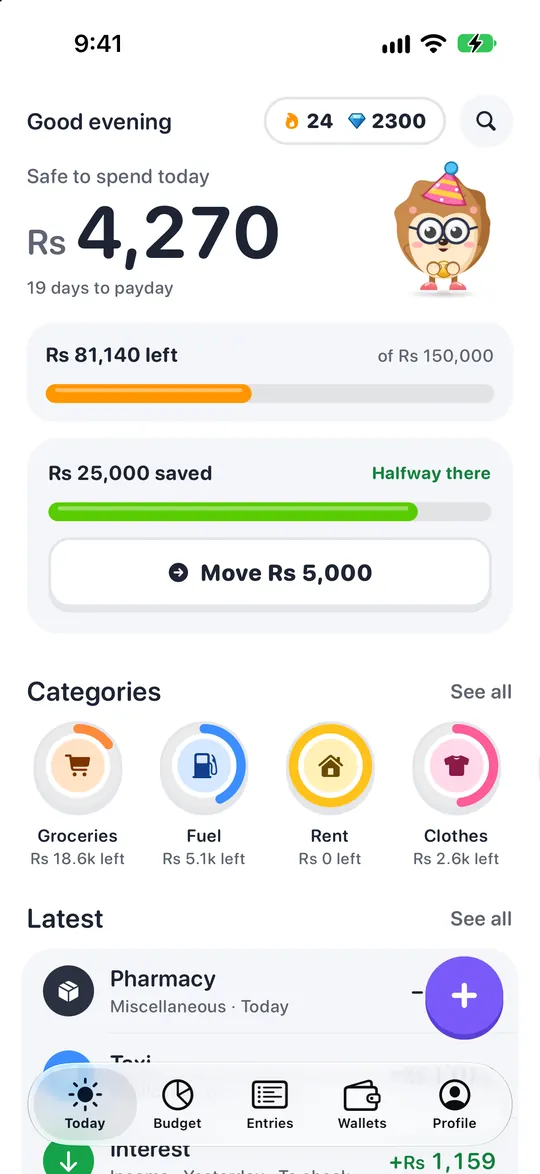
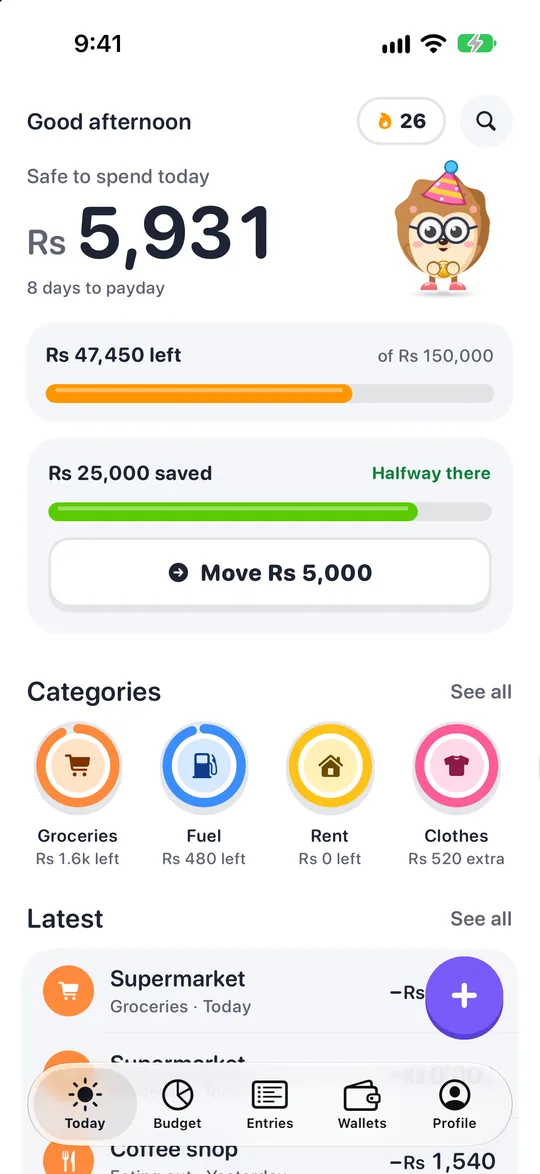
Pouch: weeks tracked and Hedge's trip, re-shot Today and Profile
New group with the streak page, a quiet day and the trip. Today (light and
dark), the week moment and Profile re-shot from the same fictional demo data
now that the app dropped the gems chip from Today.

diff --git a/work/pouch.html b/work/pouch.html
@@ -49,6 +49,9 @@
       <div class="group-head"><h3>Hedge, your guide</h3><ul><li>Hedge cheers every week you track.</li><li>Every entry counts toward the next level.</li><li>Gems buy him outfits from a wardrobe of 51.</li></ul></div>
       <div class="rail phones"><figure><div class="phone"><div class="screen"><img src="../img/apps/pouch-celebrate-week.webp" alt="Pouch Hedge, screen 1" loading="lazy" decoding="async" srcset="../img/apps/pouch-celebrate-week-300.webp 300w, ../img/apps/pouch-celebrate-week.webp 540w" sizes="(max-width: 640px) 34vw, (max-width: 900px) 160px, 240px"></div></div></figure><figure><div class="phone"><div class="screen"><img src="../img/apps/pouch-celebrate-level.webp" alt="Pouch Hedge, screen 2" loading="lazy" decoding="async" srcset="../img/apps/pouch-celebrate-level-300.webp 300w, ../img/apps/pouch-celebrate-level.webp 540w" sizes="(max-width: 640px) 34vw, (max-width: 900px) 160px, 240px"></div></div></figure><figure><div class="phone"><div class="screen"><img src="../img/apps/pouch-wardrobe.webp" alt="Pouch Hedge, screen 3" loading="lazy" decoding="async" srcset="../img/apps/pouch-wardrobe-300.webp 300w, ../img/apps/pouch-wardrobe.webp 540w" sizes="(max-width: 640px) 34vw, (max-width: 900px) 160px, 240px"></div></div></figure></div>
     </div><div class="group" data-reveal>
+      <div class="group-head"><h3>Weeks tracked and Hedge&#x27;s trip</h3><ul><li>Weeks, not days, so a quiet day at home never breaks it.</li><li>Spent nothing? Mark the day and it still counts.</li><li>Tap Hedge for his trip: every tracked day is a step, and each week he meets a neighbour.</li></ul></div>
+      <div class="rail phones"><figure><div class="phone"><div class="screen"><img src="../img/apps/pouch-streak.webp" alt="Pouch weeks tracked and trip, screen 1" loading="lazy" decoding="async" srcset="../img/apps/pouch-streak-300.webp 300w, ../img/apps/pouch-streak.webp 540w" sizes="(max-width: 640px) 34vw, (max-width: 900px) 160px, 240px"></div></div></figure><figure><div class="phone"><div class="screen"><img src="../img/apps/pouch-streak-quiet.webp" alt="Pouch weeks tracked and trip, screen 2" loading="lazy" decoding="async" srcset="../img/apps/pouch-streak-quiet-300.webp 300w, ../img/apps/pouch-streak-quiet.webp 540w" sizes="(max-width: 640px) 34vw, (max-width: 900px) 160px, 240px"></div></div></figure><figure><div class="phone"><div class="screen"><img src="../img/apps/pouch-trip.webp" alt="Pouch weeks tracked and trip, screen 3" loading="lazy" decoding="async" srcset="../img/apps/pouch-trip-300.webp 300w, ../img/apps/pouch-trip.webp 540w" sizes="(max-width: 640px) 34vw, (max-width: 900px) 160px, 240px"></div></div></figure></div>
+    </div><div class="group" data-reveal>
       <div class="group-head"><h3>Setup and today</h3><ul><li>Hedge says hi, then asks five quick questions.</li><li>Split your pay counts down to All planned.</li><li>Today shows what is safe to spend.</li></ul></div>
       <div class="rail phones"><figure><div class="phone"><div class="screen"><img src="../img/apps/pouch-welcome.webp" alt="Pouch setup and today, screen 1" loading="lazy" decoding="async" srcset="../img/apps/pouch-welcome-300.webp 300w, ../img/apps/pouch-welcome.webp 540w" sizes="(max-width: 640px) 34vw, (max-width: 900px) 160px, 240px"></div></div></figure><figure><div class="phone"><div class="screen"><img src="../img/apps/pouch-split.webp" alt="Pouch setup and today, screen 2" loading="lazy" decoding="async" srcset="../img/apps/pouch-split-300.webp 300w, ../img/apps/pouch-split.webp 540w" sizes="(max-width: 640px) 34vw, (max-width: 900px) 160px, 240px"></div></div></figure><figure><div class="phone"><div class="screen"><img src="../img/apps/pouch-today.webp" alt="Pouch setup and today, screen 3" loading="lazy" decoding="async" srcset="../img/apps/pouch-today-300.webp 300w, ../img/apps/pouch-today.webp 540w" sizes="(max-width: 640px) 34vw, (max-width: 900px) 160px, 240px"></div></div></figure></div>
     </div><div class="group" data-reveal>
